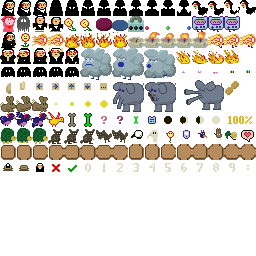
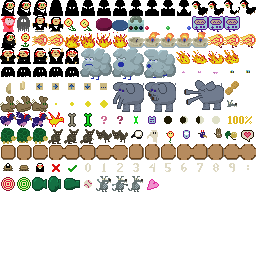
baseball bonus challenge

Changed region(s): [[0.0, 0.6875, 0.625, 0.75], [0.875, 0.375, 0.9375, 0.4375]]

diff --git a/src/game/sprite/types/sprite_cannon.c b/src/game/sprite/types/sprite_cannon.c
@@ -1,0 +1,98 @@
+#include "game/penance.h"
+
+#define FIRE_PERIOD 1.500
+
+struct sprite_cannon {
+  struct sprite hdr;
+  int heatseek;
+  double rotation; // radians clockwise from right, if (heatseek)
+  double clock; // Counts up to FIRE_PERIOD
+  uint8_t tileid0;
+};
+
+#define SPRITE ((struct sprite_cannon*)sprite)
+
+static int _cannon_init(struct sprite *sprite,const uint8_t *def,int defc) {
+  struct map_command_reader reader;
+  map_command_reader_init_serial(&reader,def,defc);
+  int opcode,argc;
+  const uint8_t *arg;
+  while ((argc=map_command_reader_next(&arg,&opcode,&reader))>=0) switch (opcode) {
+    case 0x3f: SPRITE->heatseek=arg[1]; break;
+  }
+  SPRITE->clock=0.200; // Bottom of cycle is the distended frame; skip that the first time.
+  SPRITE->tileid0=sprite->tileid;
+  return 0;
+}
+
+static void cannon_fire(struct sprite *sprite) {
+
+  // Don't fire if there isn't a lock, it feels weird.
+  int locked=0,i=COLC*ROWC;
+  const uint8_t *p=g.map->v;
+  for (;i-->0;p++) {
+    if (*p==0x30) { locked=1; break; }
+  }
+  if (!locked) return;
+
+  const double speed=16.0;
+  double nx=1.0;
+  double ny=0.0;
+  if (SPRITE->heatseek) {
+    nx=cos(SPRITE->rotation);
+    ny=sin(SPRITE->rotation);
+  }
+  double x=sprite->x+nx*0.5;
+  double y=sprite->y+ny*0.5;
+  struct sprite *missile=sprite_spawn_with_type(x,y,&sprite_type_missile,0,0);
+  if (!missile) return;
+  missile->imageid=sprite->imageid;
+  missile->tileid=SPRITE->tileid0+3;
+  sprite_group_add(GRP(VISIBLE),missile);
+  sprite_group_add(GRP(UPDATE),missile);
+  sprite_group_add(GRP(HAZARD),missile);
+  sfx(SFX_CANNON_FIRE);
+  sprite_missile_launch(missile,nx*speed,ny*speed);
+}
+
+static void _cannon_update(struct sprite *sprite,double elapsed) {
+  if ((SPRITE->clock+=elapsed)>=FIRE_PERIOD) {
+    SPRITE->clock-=FIRE_PERIOD;
+    cannon_fire(sprite);
+  }
+  if (SPRITE->heatseek) {
+    if (GRP(HERO)->spritec>0) {
+      struct sprite *hero=GRP(HERO)->spritev[0];
+      double dx=hero->x-sprite->x;
+      double dy=hero->y-sprite->y;
+      SPRITE->rotation=atan2(dy,dx);
+    }
+  }
+}
+
+static void _cannon_render(struct sprite *sprite,int16_t addx,int16_t addy) {
+  int texid=texcache_get_image(&g.texcache,sprite->imageid);
+  int16_t dstx=(int16_t)(sprite->x*TILESIZE)+addx; // center
+  int16_t dsty=(int16_t)(sprite->y*TILESIZE)+addy;
+  uint8_t tileid=SPRITE->tileid0;
+  if (SPRITE->clock<0.200) {
+    tileid+=2;
+  } else if (SPRITE->clock>FIRE_PERIOD-0.200) {
+    tileid+=1;
+  }
+  if (SPRITE->heatseek) {
+    int16_t srcx=(tileid&0x0f)*TILESIZE;
+    int16_t srcy=(tileid>>4)*TILESIZE;
+    graf_draw_mode7(&g.graf,texid,dstx,dsty,srcx,srcy,TILESIZE,TILESIZE,1.0,1.0,SPRITE->rotation,0);
+  } else {
+    graf_draw_tile(&g.graf,texid,dstx,dsty,tileid,0);
+  }
+}
+
+const struct sprite_type sprite_type_cannon={
+  .name="cannon",
+  .objlen=sizeof(struct sprite_cannon),
+  .init=_cannon_init,
+  .update=_cannon_update,
+  .render=_cannon_render,
+};

diff --git a/src/game/sprite/types/sprite_target.c b/src/game/sprite/types/sprite_target.c
@@ -1,0 +1,55 @@
+#include "game/penance.h"
+
+struct sprite_target {
+  struct sprite hdr;
+  int complete;
+};
+
+#define SPRITE ((struct sprite_target*)sprite)
+
+static int _target_init(struct sprite *sprite,const uint8_t *def,int defc) {
+  
+  /* Stupid and hacky: If there's no tile 0x30 (the lock's backing tile), assume we're already complete.
+   * This way, targets don't need their own persistence mechanism, but they'll stay green after leaving and returning.
+   */
+  SPRITE->complete=1;
+  const uint8_t *p=g.map->v;
+  int i=COLC*ROWC;
+  for (;i-->0;p++) if (*p==0x30) { SPRITE->complete=0; break; }
+  if (SPRITE->complete) sprite->tileid++;
+  
+  return 0;
+}
+
+static void _target_update(struct sprite *sprite,double elapsed) {
+  if (SPRITE->complete) return;
+  // fireball and missile can complete us.
+  const double radius=0.800;
+  const double radius2=radius*radius;
+  int i=GRP(VISIBLE)->spritec;
+  while (i-->0) {
+    struct sprite *missile=GRP(VISIBLE)->spritev[i];
+    if (
+      (missile->type==&sprite_type_fireball)||
+      (missile->type==&sprite_type_missile)
+    ) {
+      double dx=missile->x-sprite->x; if ((dx<-radius)||(dx>radius)) continue;
+      double dy=missile->y-sprite->y; if ((dy<-radius)||(dy>radius)) continue;
+      double d2=dx*dx+dy*dy;
+      if (d2>radius2) continue;
+      SPRITE->complete=1;
+      sprite->tileid++;
+      sprite_kill_later(missile);
+      sprite_lock_unlock_all();
+      // No need for a sound effect; the lock makes one.
+      return;
+    }
+  }
+}
+
+const struct sprite_type sprite_type_target={
+  .name="target",
+  .objlen=sizeof(struct sprite_target),
+  .init=_target_init,
+  .update=_target_update,
+};

diff --git a/src/game/sprite/types/sprite_werewolf.c b/src/game/sprite/types/sprite_werewolf.c
@@ -1,0 +1,53 @@
+#include "game/penance.h"
+
+struct sprite_werewolf {
+  struct sprite hdr;
+  double animclock;
+  int animframe;
+};
+
+#define SPRITE ((struct sprite_werewolf*)sprite)
+
+void _werewolf_update(struct sprite *sprite,double elapsed) {
+  if ((SPRITE->animclock-=elapsed)<=0.0) {
+    SPRITE->animclock+=0.333;
+    if (++(SPRITE->animframe)>=2) SPRITE->animframe=0;
+    // Check for rescue only at animation ticks, just so we're not spamming it every frame.
+    if (!g.rescued) {
+      int havelock=0,i=COLC*ROWC;
+      const uint8_t *p=g.map->v;
+      for (;i-->0;p++) {
+        if (*p==0x30) {
+          havelock=1;
+          break;
+        }
+      }
+      if (!havelock) {
+        g.rescued=1;
+      }
+    }
+  }
+}
+
+void _werewolf_render(struct sprite *sprite,int16_t addx,int16_t addy) {
+  int texid=texcache_get_image(&g.texcache,sprite->imageid);
+  int16_t dstx=(int16_t)(sprite->x*TILESIZE)+addx;
+  int16_t dsty=(int16_t)(sprite->y*TILESIZE)+addy;
+  if (g.rescued) {
+    graf_draw_tile(&g.graf,texid,dstx,dsty,sprite->tileid+2,0);
+    if (SPRITE->animframe) {
+      graf_draw_tile(&g.graf,texid,dstx+(TILESIZE>>1),dsty-TILESIZE,sprite->tileid+3,0);
+    } else {
+      graf_draw_tile(&g.graf,texid,dstx-(TILESIZE>>1),dsty-TILESIZE,sprite->tileid+3,EGG_XFORM_XREV);
+    }
+  } else {
+    graf_draw_tile(&g.graf,texid,dstx,dsty,sprite->tileid+SPRITE->animframe,0);
+  }
+}
+
+const struct sprite_type sprite_type_werewolf={
+  .name="werewolf",
+  .objlen=sizeof(struct sprite_werewolf),
+  .update=_werewolf_update,
+  .render=_werewolf_render,
+};

diff --git a/src/game/menu/menu_type_hello.c b/src/game/menu/menu_type_hello.c
@@ -249,7 +249,7 @@ static void _hello_input(struct menu *menu,int input,int pvinput) {
     sprite_group_kill(GRP(HERO));
     maps_reset(g.rom,g.romc);
     g.playtime=0.0;
-    g.bonus=g.jammio=g.spellusage=0;
+    g.bonus=g.jammio=g.spellusage=g.rescued=0;
     penance_load_map(1,TRANSITION_CUT);
     if (ENABLE_MUSIC) egg_play_song(RID_song_doors_without_walls,0,1);
     menu_pop(menu);
@@ -276,30 +276,6 @@ static void _hello_update(struct menu *menu,double elapsed) {
  */
  
 static void _hello_render(struct menu *menu) {
-  /*XXX
-  if (MENU->dismissed) {
-    int alpha=(int)(MENU->alpha*255.0);
-    if (alpha<0) alpha=0; else if (alpha>0xff) alpha=0xff;
-    graf_set_alpha(&g.graf,alpha);
-    graf_draw_rect(&g.graf,0,0,g.fbw,g.fbh,0x887890ff);
-  } else {
-    egg_draw_clear(1,0x887890ff);
-  }
-  int texid_hello=texcache_get_image(&g.texcache,RID_image_hello);
-  int hellow=0,helloh=0;
-  egg_texture_get_status(&hellow,&helloh,texid_hello);
-  graf_set_tint(&g.graf,0x201008ff);
-  if (!MENU->dismissed) {
-    int alpha=(int)(MENU->alpha*255.0);
-    if (alpha<0) alpha=0; else if (alpha>0xff) alpha=0xff;
-    graf_set_alpha(&g.graf,alpha);
-  }
-  graf_draw_decal(&g.graf,texid_hello,44,36,0,0,hellow,helloh,0);
-  graf_set_tint(&g.graf,0);
-  if (!MENU->dismissed) {
-    graf_set_alpha(&g.graf,0xff);
-  }
-  */
   switch (MENU->stage) {
     #define _(tag) case STAGE_##tag: hello_render_##tag(menu); break;
     FOR_EACH_STAGE

diff --git a/src/game/sprite/types/sprite_scoreboard.c b/src/game/sprite/types/sprite_scoreboard.c
@@ -47,6 +47,7 @@ static uint8_t scoreboard_moon_tile(uint8_t spellusage) {
 static int scoreboard_is_full_clear() {
   if (!g.bonus) return 0;
   if (!g.jammio) return 0;
+  if (!g.rescued) return 0;
   if (g.spellusage!=0xff) return 0;
   int i=CANDLE_COUNT; while (i-->0) if (!g.candlev[i]) return 0;
   return 1;
@@ -68,7 +69,7 @@ static void _scoreboard_render(struct sprite *sprite,int16_t addx,int16_t addy) 
   egg_draw_globals(0,0xff);
   
   /* Badges blow the time section.
-   * Five tiles, aligned with six grid cells: Bone, Jammio, Spell Usage, (blank), 100% (*2)
+   * Six tiles, aligned with six grid cells: Bone, Jammio, Rescue, Spell Usage, (blank), 100% (*2)
    */
   dstx=(int16_t)((sprite->x-2.0)*TILESIZE)+addx;
   dsty=(int16_t)((sprite->y+2.0)*TILESIZE)+addy;
@@ -84,8 +85,8 @@ static void _scoreboard_render(struct sprite *sprite,int16_t addx,int16_t addy) 
   }
   VTX(g.bonus?0x78:qmark) // Bone
   VTX(g.jammio?0x79:qmark) // Jammio
+  VTX(g.rescued?0x6e:qmark) // Rescue
   VTX(scoreboard_moon_tile(g.spellusage)) // Moon: 0x7a,0x7b,0x7c,0x7d
-  dstx+=TILESIZE;
   if ((SPRITE->animphase<0.750)&&scoreboard_is_full_clear()) {
     VTX(0x7e) // "100%"
     VTX(0x7f) // ''

diff --git a/src/game/sprite/sprite.h b/src/game/sprite/sprite.h
@@ -132,6 +132,9 @@ extern const struct sprite_type sprite_type_fireworks;
 extern const struct sprite_type sprite_type_neon;
 extern const struct sprite_type sprite_type_raccoon;
 extern const struct sprite_type sprite_type_bug;
+extern const struct sprite_type sprite_type_target;
+extern const struct sprite_type sprite_type_cannon;
+extern const struct sprite_type sprite_type_werewolf;
 
 // ids get assigned in this order. Use the same as the ^ declarations above.
 #define FOR_EACH_SPRITE_TYPE \
@@ -151,7 +154,10 @@ extern const struct sprite_type sprite_type_bug;
   _(fireworks) \
   _(neon) \
   _(raccoon) \
-  _(bug)
+  _(bug) \
+  _(target) \
+  _(cannon) \
+  _(werewolf)
 
 const struct sprite_type *sprite_type_by_id(int id);
 
@@ -165,6 +171,7 @@ void sprite_missile_target_hero(struct sprite *sprite);
 void sprite_missile_launch(struct sprite *sprite,double dx,double dy);
 void sprite_lock_set_lamp(struct sprite *sprite,int index,int value);
 int sprite_lock_is_locked(const struct sprite *sprite);
+void sprite_lock_unlock_all();
 void spawn_bugs();
 
 #endif

diff --git a/src/game/penance.h b/src/game/penance.h
@@ -85,7 +85,7 @@ extern struct globals {
   int gameover; // Nonzero after we enter the triangle with all candles lit. Outtro animation.
   double playtime;
   double besttime;
-  int bonus,jammio,spellusage;
+  int bonus,jammio,spellusage,rescued;
   int transition;
   double transition_clock; // 0=>TRANSITION_TIME
   int transition_pvbits; // texid, capture of the last frame of the "from" scene
@@ -142,6 +142,7 @@ void penance_render_game_to(int texid);
 #define SFX_DUALEPHANT_FIRE 27
 #define SFX_WIND_BLOW 28
 #define SFX_TICK 29
+#define SFX_CANNON_FIRE 30
 //#define sfx(id) egg_play_sound(2,id)
 #define sfx(id) _penance_sfx(id)
 void _penance_sfx(int id); // Don't call directly; use the macro.

diff --git a/src/game/sprite/types/sprite_missile.c b/src/game/sprite/types/sprite_missile.c
@@ -19,6 +19,20 @@ static void _missile_update(struct sprite *sprite,double elapsed) {
     sprite_kill_later(sprite);
     return;
   }
+  // Also disappear if we hit a solid cell; this is important for the Bonus Baseball Challenge.
+  if ((sprite->x>0.0)&&(sprite->y>0.0)) {
+    int x=(int)sprite->x;
+    int y=(int)sprite->y;
+    if ((x<COLC)&&(y<ROWC)) {
+      switch (g.map->tileprops[g.map->v[y*COLC+x]]) {
+        case 1:
+        case 3: {
+            sprite_kill_later(sprite);
+            return;
+          }
+      }
+    }
+  }
   if (!SPRITE->deflected&&(GRP(HERO)->spritec>=1)) {
     struct sprite *hero=GRP(HERO)->spritev[0];
     if (hero_is_turtle(hero)) {

diff --git a/src/game/sprite/types/sprite_lock.c b/src/game/sprite/types/sprite_lock.c
@@ -66,3 +66,14 @@ int sprite_lock_is_locked(const struct sprite *sprite) {
   if (SPRITE->unlock_clock>0.0) return 0;
   return 1;
 }
+
+void sprite_lock_unlock_all() {
+  int i=GRP(VISIBLE)->spritec;
+  while (i-->0) {
+    struct sprite *sprite=GRP(VISIBLE)->spritev[i];
+    if (sprite->type!=&sprite_type_lock) continue;
+    if (SPRITE->unlock_clock>0.0) continue;
+    SPRITE->lamps=6;
+    sprite_lock_set_lamp(sprite,0,1);
+  }
+}
